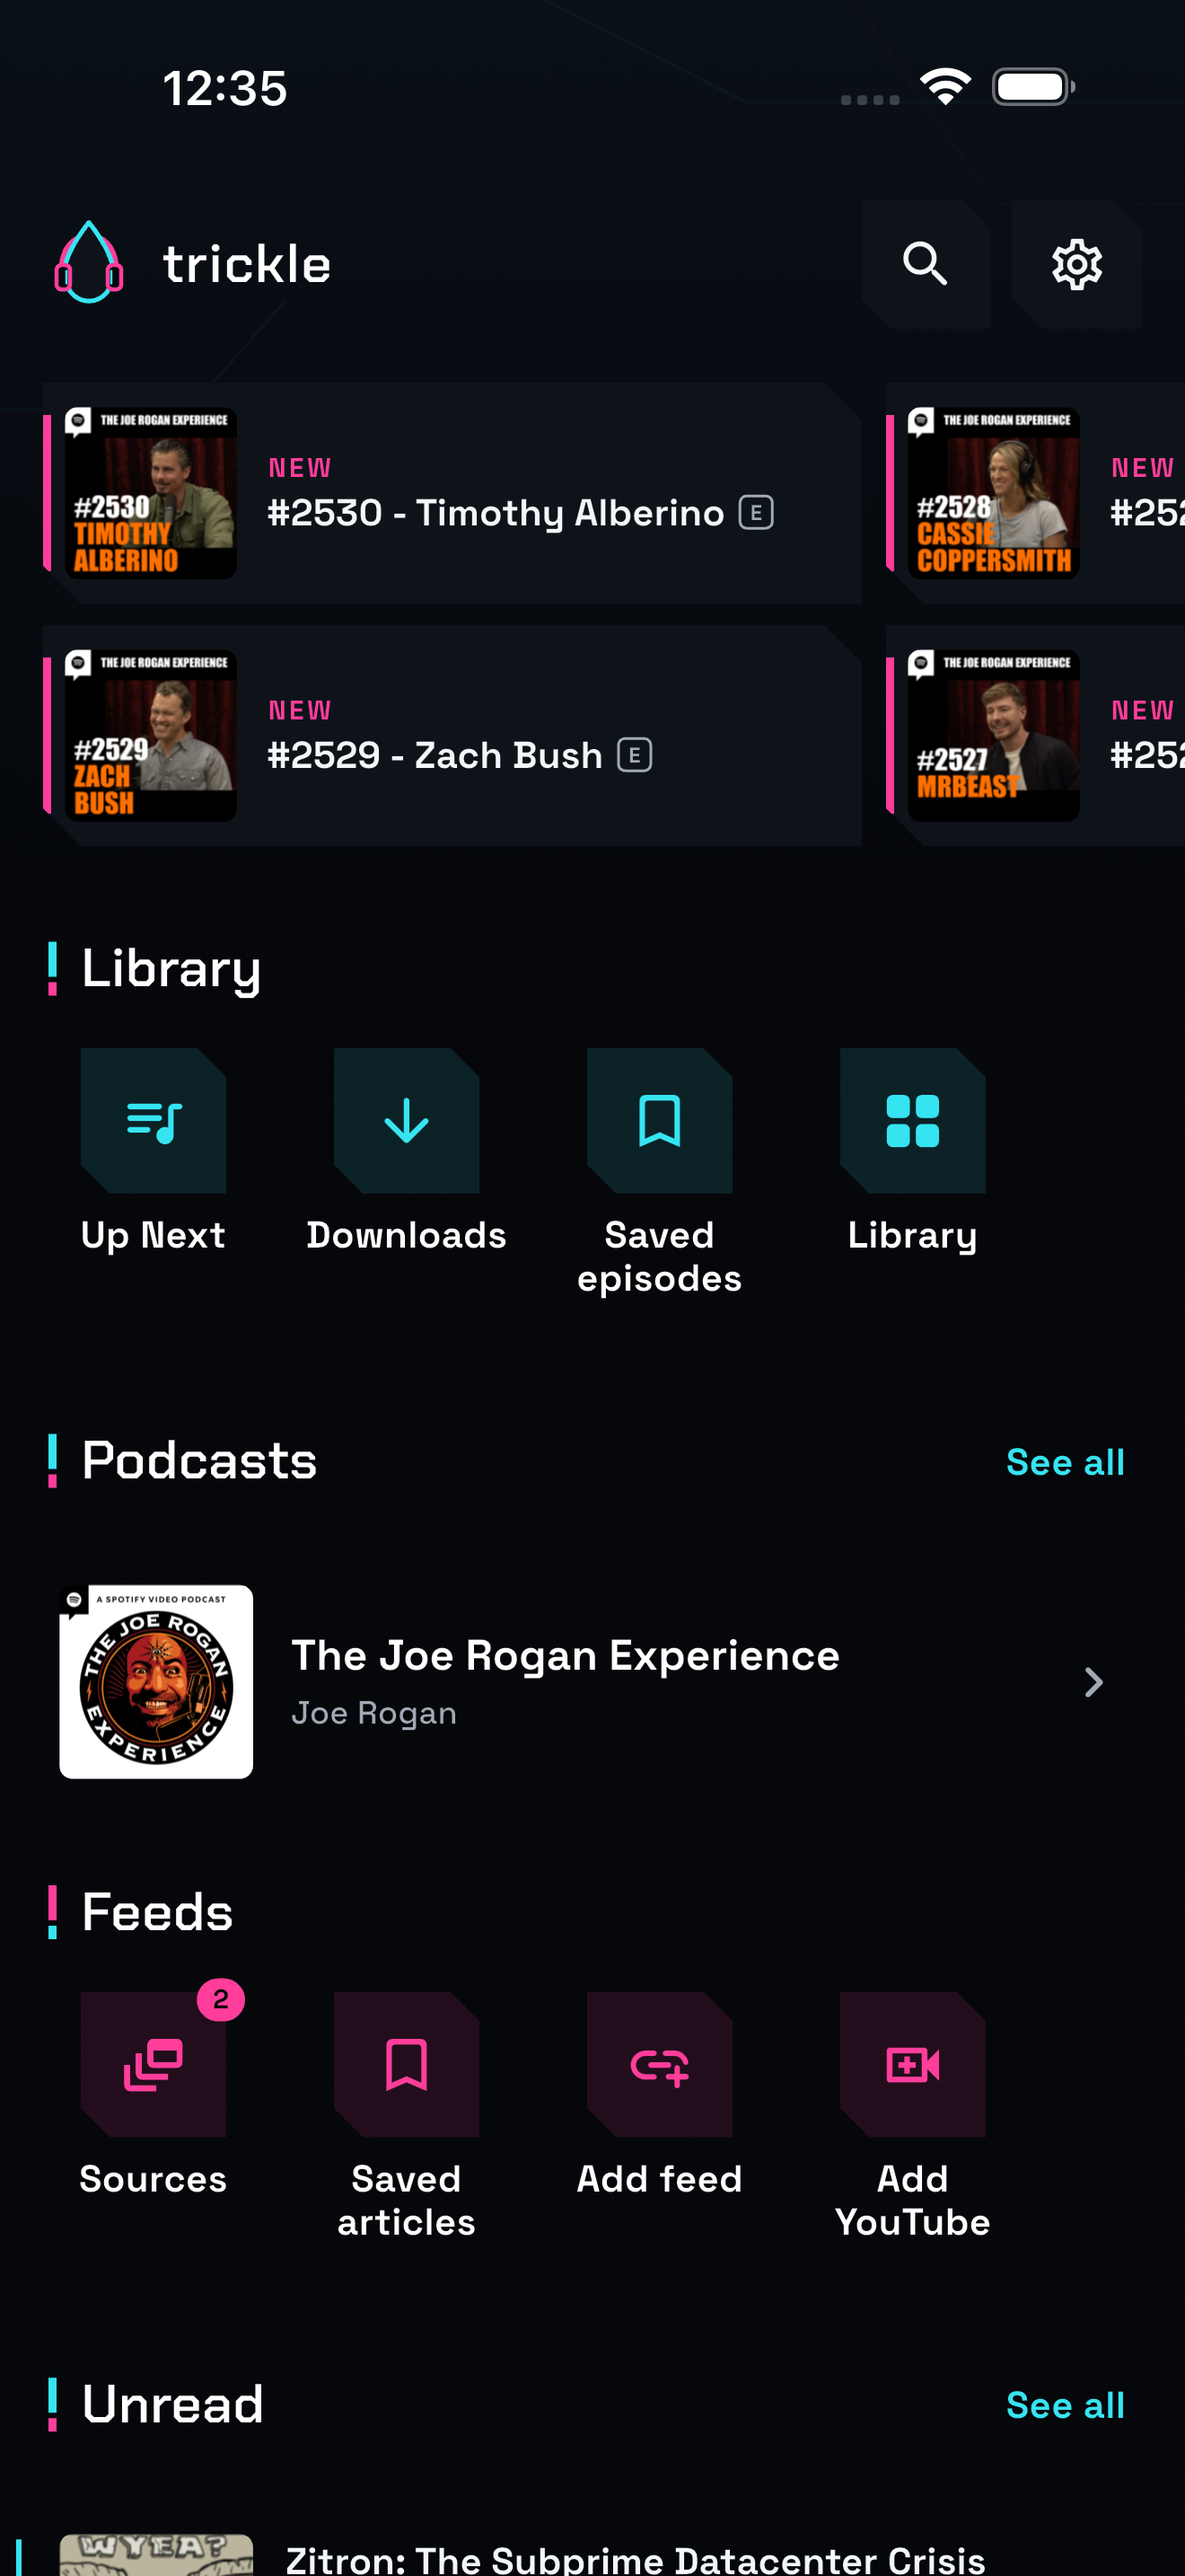
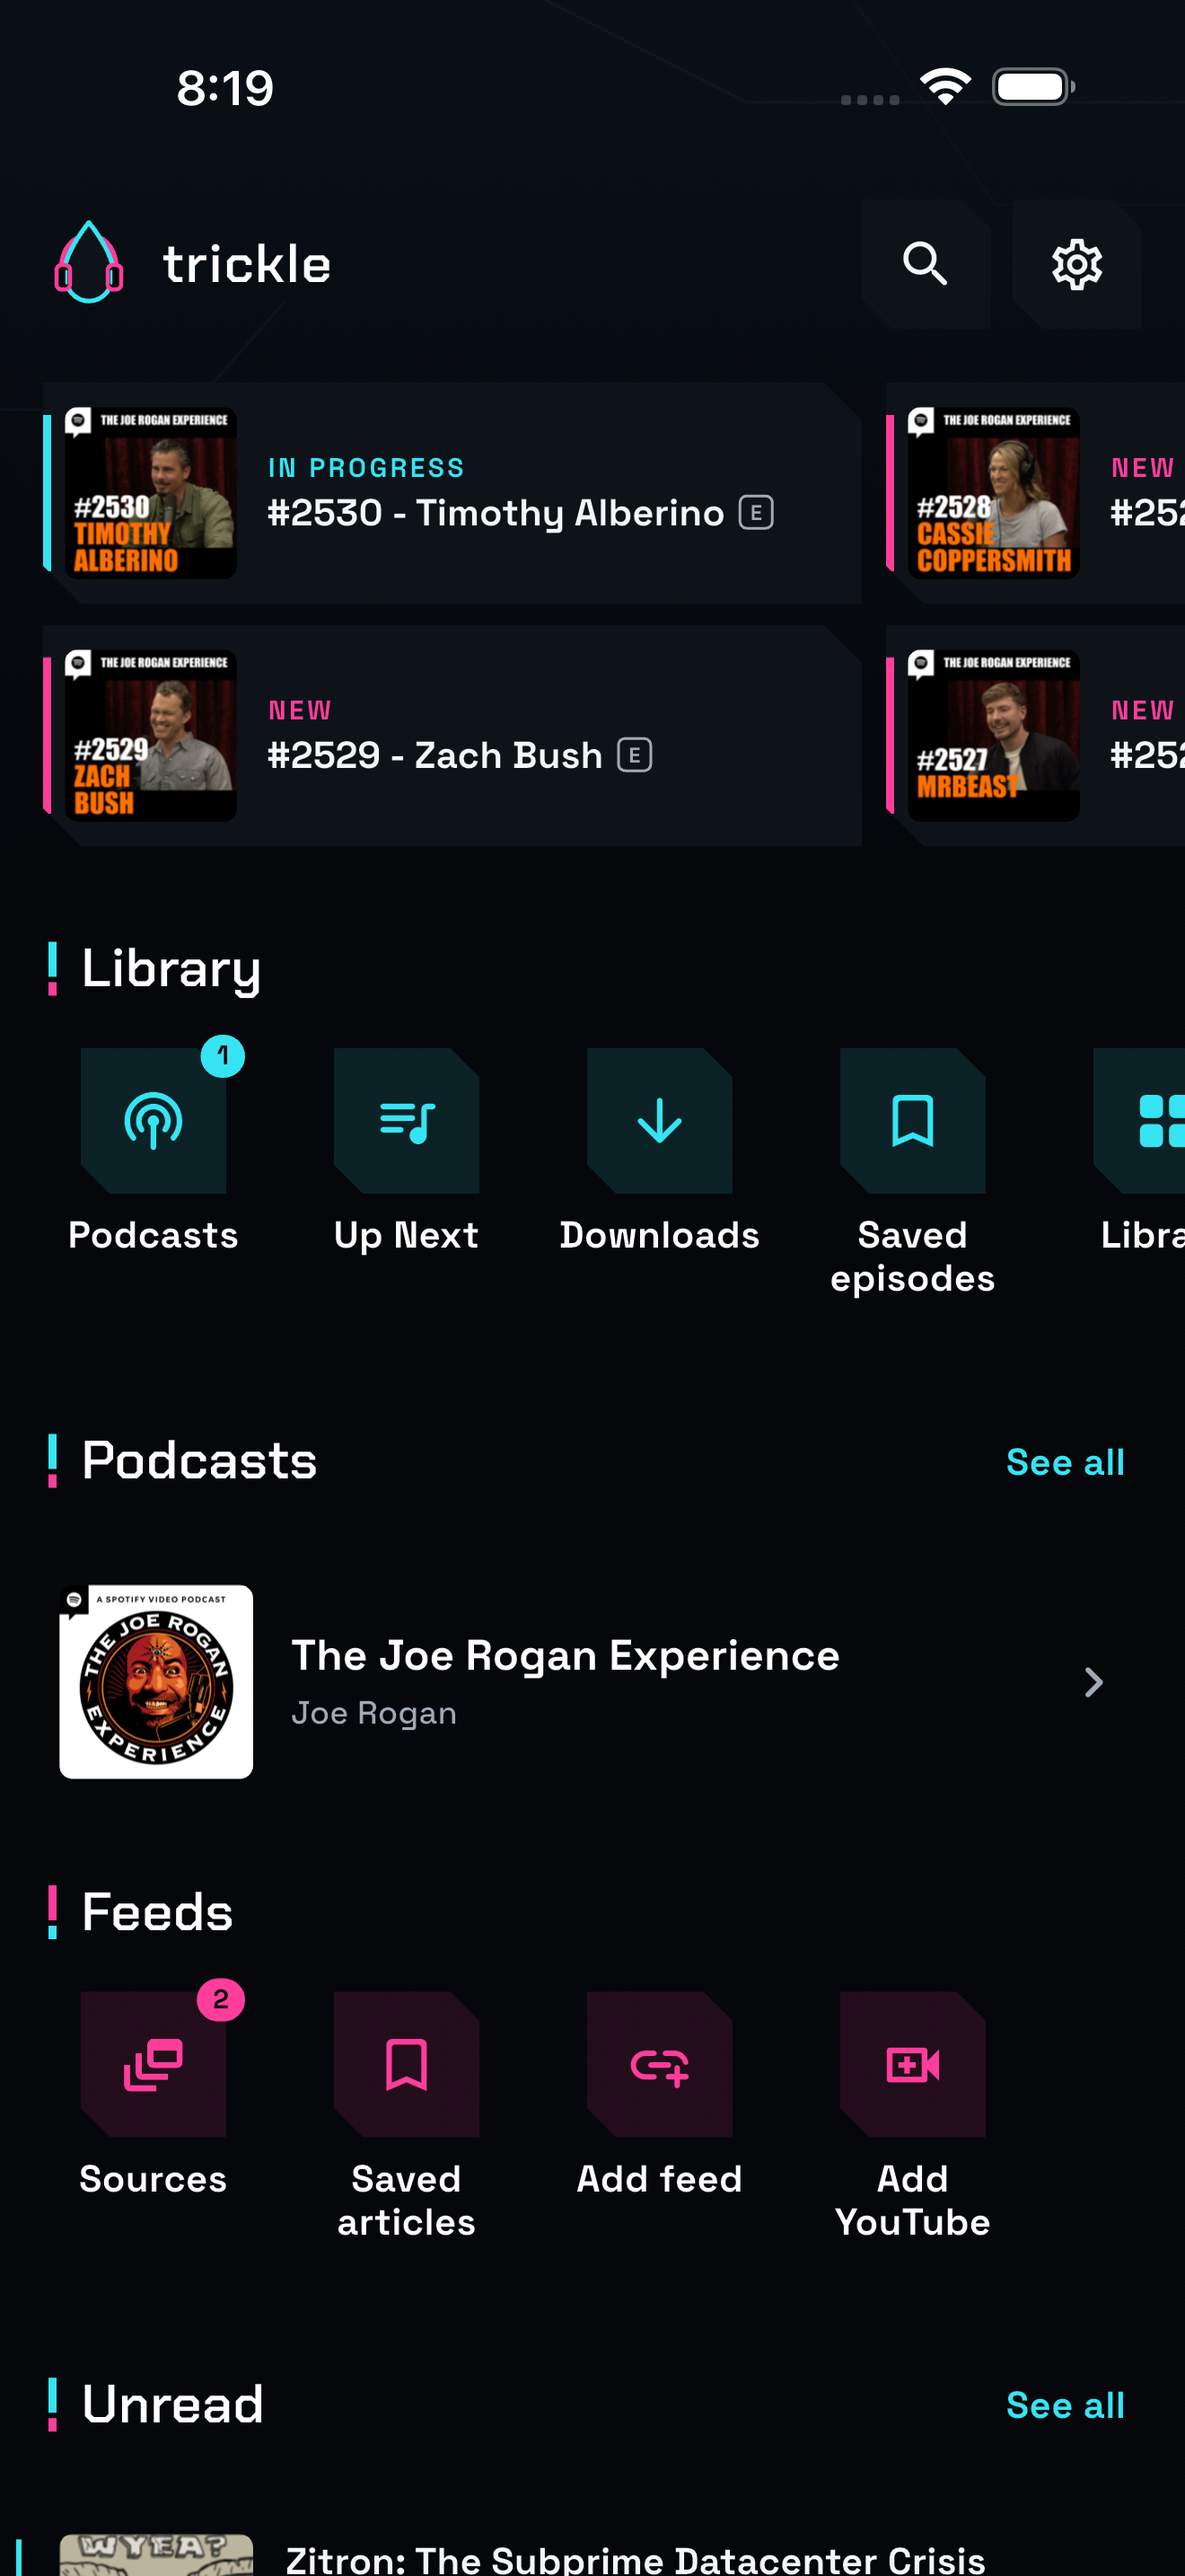
chore: prepare 1.0.0 build 24

diff --git a/store/metadata.md b/store/metadata.md
@@ -7,7 +7,7 @@
 - Apple ID: 6792352845
 - Bundle ID: com.parmscript.trickle
 - Version: 1.0.0
-- Build: 23
+- Build: 24
 
 ## Name
 
@@ -29,7 +29,7 @@ Podcasts and feeds in one fast, focused cyberpunk interface.
 
 trickle brings podcasts, news, blogs, and independent feeds into one focused cyberpunk interface.
 
-Find podcasts and inspect their descriptions and episodes before subscribing. Add any compatible RSS, Atom, or JSON Feed, or paste a public YouTube channel or playlist URL. Stream or download podcast episodes, build a persistent queue, read clean extracted articles, and open video entries in a persistent player without creating an account. Minimize video to a live Now Playing preview, or explicitly start supported system Picture in Picture for background audio. Other video pauses when trickle is hidden. If a video page cannot load, the same player falls back to the entry's official source URL. Podcast playback uses the native system audio engine and includes exact global speed choices from 1x to 2x, intro and outro skipping, sleep timers, chapters, publisher transcripts, bookmarks, lock-screen controls, and automatic download cleanup. Choose background refresh from 1 hour through 1 week and remove played downloads immediately, after 1 day, or after 1 week.
+Find podcasts and inspect their descriptions and episodes before subscribing. Add any compatible RSS, Atom, or JSON Feed, or paste a public YouTube channel or playlist URL. Stream or download podcast episodes, build a persistent queue, read clean extracted articles, and open video entries in a persistent player without creating an account. Podcast episodes distinguish New, In Progress, and Played, with saved progress and Resume available for partial listening. Minimize video to a live Now Playing preview, or explicitly start supported system Picture in Picture for background audio. Other video pauses when trickle is hidden. If a video page cannot load, the same player falls back to the entry's official source URL. Podcast playback uses the native system audio engine and includes exact global speed choices from 1x to 2x, intro and outro skipping, sleep timers, chapters, publisher transcripts, bookmarks, lock-screen controls, and automatic download cleanup. Choose background refresh from 1 hour through 1 week and remove played downloads immediately, after 1 day, or after 1 week.
 
 trickle does not collect your information. Import standard OPML, export podcasts, RSS and YouTube feeds, or all subscriptions, and create a local backup whenever you want.
 
@@ -58,7 +58,7 @@ Both pages are published from `main/docs` in the public trickle repository. Veri
 
 ## Screenshots
 
-Five 1320×2868 iPhone screenshots were regenerated from the current visual system on July 23, 2026. Use `tool/maestro/capture_store_screenshots.yaml` after preparing its asserted podcast and feed data whenever the interface changes, then upload the images in this order:
+Five 1320×2868 iPhone screenshots were regenerated from the current visual system on July 24, 2026. Use `tool/maestro/capture_store_screenshots.yaml` after preparing its asserted podcast and feed data whenever the interface changes, then upload the images in this order:
 
 1. Home
 2. Podcast
@@ -78,6 +78,8 @@ Five 1320×2868 iPhone screenshots were regenerated from the current visual syst
 Listen to podcasts and read RSS, Atom, and JSON feeds in one fast, focused app that does not collect your information. Search the Apple podcast catalog, follow public YouTube channels and playlists as feeds, stream or download episodes, build a queue, import standard OPML, export podcasts, RSS and YouTube feeds, or all subscriptions, and read articles in a clean reader view.
 
 Browse recent podcast episodes in a compact two-row shelf, then move directly into Up Next, downloads, saved items, podcast subscriptions, and feed sources. Subscription counts stay attached to their exact destinations, and podcast details remain visible throughout subscribe and unsubscribe actions.
+
+Podcast episodes now show distinct New, In Progress, and Played states. Partial listening displays saved progress and Resume throughout episode lists, while the Podcasts shortcut mirrors Sources with a subscription-count badge.
 
 One-line and two-line collection shortcuts now keep identical icon, label, and touch-target alignment.
 

diff --git a/README.md b/README.md
@@ -10,7 +10,7 @@ trickle is a podcast player and RSS reader for iOS and Android. It combines comp
 - Native system playback, background audio, lock-screen controls, interruptions, headphone-disconnect pause, repeat-one, sleep timer, bookmarks, chapters, publisher transcripts, and per-feed intro/outro skip
 - One global playback speed with `1x`, `1.25x`, `1.5x`, `1.75x`, and `2x`
 - Unread, all, and saved article views; reader-mode extraction; link previews; local full-text search; and external share/browser actions
-- Episode details with full show notes, explicit Play/Resume controls, no play-on-open side effect, and separate quick-play buttons throughout episode lists
+- New, in-progress, and played episode states; partial-progress bars and Resume actions; full show notes; no play-on-open side effect; and separate quick-play buttons throughout episode lists
 - YouTube video entries with a persistent web player, official-source fallback, and a live minimized Now Playing preview that does not reload; user-started system Picture in Picture keeps audio playing in the background while other video pauses when the app is hidden
 - Public and private feeds, including credentials in URL query strings or opaque paths and Basic or Bearer authorization
 - Local ZIP backup/restore, local notifications, and best-effort operating-system background refresh
@@ -25,7 +25,7 @@ Desktop, web, CarPlay, Android Auto, and Android Automotive are intentionally ou
 
 ## Interface
 
-The home flow starts with a horizontally scrolling two-row shelf of recent episodes, followed by compact collection shortcuts, subscriptions, feed actions, and unread entries. Shortcut badges always count the items in their destination, hide at zero, and never appear on actions such as Add Feed. The Library repeats the full collection navigation in one place. A persistent mini player keeps the current episode or video reachable without taking over navigation.
+The home flow starts with a horizontally scrolling two-row shelf of recent episodes, followed by compact collection shortcuts, subscriptions, feed actions, and unread entries. Episodes distinguish New, In Progress, and Played at a glance. Shortcut badges always count the items in their destination: Podcasts and Sources count subscriptions, while Up Next, Downloads, and Saved count their own items. Badges hide at zero and never appear on actions such as Add Feed. The Library repeats the full collection navigation in one place. A persistent mini player keeps the current episode or video reachable without taking over navigation.
 
 The visual system uses clipped control geometry, functional state rails, and a sparse signal-line backdrop instead of decorating every content row. Cyan identifies listening actions, magenta identifies feed actions, and acid green is reserved for active playback. Content lists remain continuous and low-chrome. Display typography is limited to page and section hierarchy; reading and metadata use the more neutral text face. Controls reflow at accessibility text sizes rather than shrinking labels or touch targets.
 

diff --git a/store/testflight_notes.md b/store/testflight_notes.md
@@ -4,11 +4,11 @@ Please test the combined podcast and feed flow:
 
 - Check the cyberpunk visual hierarchy; rows should stay aligned and readable without unnecessary boxes or dividers
 - On Home, verify recent podcast episodes form a two-row horizontal shelf and one-line or two-line collection shortcuts remain equally aligned and tappable
-- Verify badges match their destination: Sources counts feed subscriptions, while zero counts and Add actions show no badge
+- Verify badge rules: Podcasts and Sources count subscriptions; other collection shortcuts count their own items; zero counts and Add actions show no badge
 - At the largest system text size, verify controls, shortcuts, the mini player, and tab navigation reflow without clipping or overlap
 - Search for multiple podcasts and subscribe to more than one; only the tapped row should show progress, and the rest of the results should remain usable
 - Open a podcast result and verify its description, art, dates, durations, and summaries appear before subscription and after unsubscribing
-- Stream, seek, pause, resume, pause while buffering, and change the global playback speed
+- Partially play an episode; verify lists change from New to In Progress, show saved progress and Resume, then change to Played after completion
 - Verify a failed audio source shows a clear message and Retry action; retry after restoring the network
 - Add episodes to Up Next, reorder the queue, and verify it survives relaunch
 - Download an episode, use it offline, and test automatic cleanup after playback

diff --git a/docs/support.md b/docs/support.md
@@ -35,6 +35,8 @@ If a refresh finishes with failed feeds, open the affected subscription to see i
 
 Confirm the device is online and the publisher's media URL is still available. Retry the episode after changing networks.
 
+Episode lists label untouched episodes New, partially listened episodes In Progress, and completed episodes Played. In-progress rows show saved progress and Resume. Playback resumes from a saved position after at least 10 seconds of listening.
+
 If a completed download is missing or unusable, trickle falls back to the publisher's stream while the device is online.
 
 ### Video feeds
